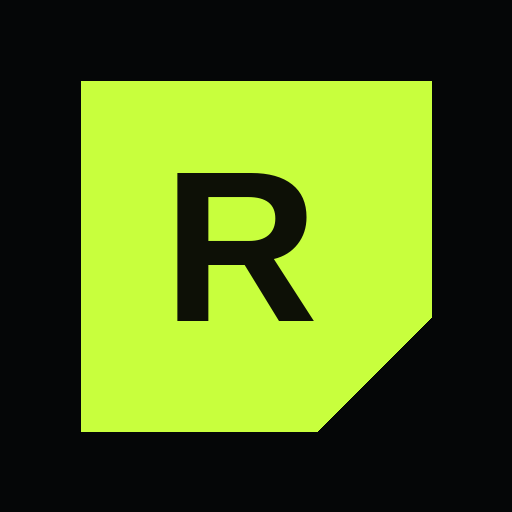
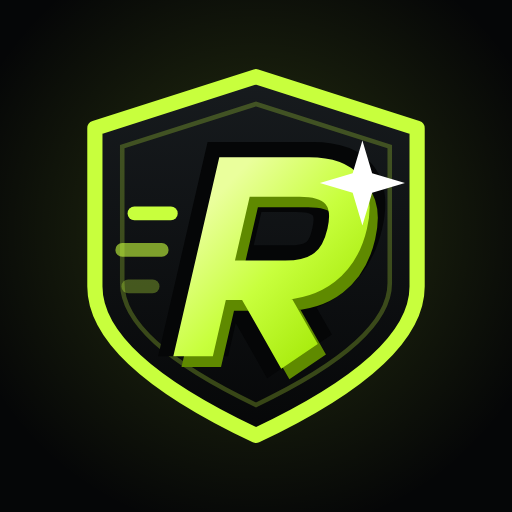
Runner Quest: 방패 엠블럼 로고 추가 (헤더·로그인·파비콘·앱 아이콘)
Claude-Session: https://claude.ai/code/session_012ZS5j7PRTg4FKPMFNKecrB

diff --git a/quest/index.html b/quest/index.html
@@ -12,6 +12,7 @@
 <meta name="apple-mobile-web-app-status-bar-style" content="black-translucent">
 <meta name="apple-mobile-web-app-title" content="Runner Quest">
 <link rel="manifest" href="/quest/manifest.webmanifest">
+<link rel="icon" type="image/svg+xml" href="/quest/logo.svg">
 <link rel="icon" type="image/png" href="/quest/icon-192.png">
 <link rel="apple-touch-icon" href="/quest/icon-180.png">
 <link rel="preconnect" href="https://fonts.googleapis.com">
@@ -79,7 +80,11 @@ a { color:inherit; text-decoration:none; }
 .topbar { position:sticky; top:0; z-index:30; background:rgba(5,6,7,.82); backdrop-filter:blur(14px); -webkit-backdrop-filter:blur(14px); border-bottom:1px solid var(--line); padding-top:env(safe-area-inset-top,0); }
 .topbar-in { height:60px; display:flex; align-items:center; justify-content:space-between; gap:12px; }
 .brand { display:flex; align-items:center; gap:10px; font:700 16px/1 var(--font-en); letter-spacing:-.02em; }
-.brand-mark { width:30px; height:30px; display:grid; place-items:center; background:var(--lime); color:var(--lime-ink); clip-path:polygon(0 0,100% 0,100% 70%,70% 100%,0 100%); font:700 15px/1 var(--font-en); }
+.brand-mark { width:34px; height:34px; flex:none; display:block; filter:drop-shadow(0 0 10px rgba(200,255,61,.25)); transition:transform .25s; }
+.brand:hover .brand-mark { transform:rotate(-6deg) scale(1.06); }
+.login-logo { width:88px; height:88px; justify-self:center; filter:drop-shadow(0 0 22px rgba(200,255,61,.3)); animation:logoFloat 3.2s ease-in-out infinite; }
+@keyframes logoFloat { 50% { transform:translateY(-5px); } }
+@media (prefers-reduced-motion: reduce) { .login-logo { animation:none; } }
 .brand small { display:block; color:var(--muted); font:500 11px/1 var(--font-ko); margin-top:4px; letter-spacing:0; }
 .top-tabs { display:none; gap:4px; }
 .top-tabs button { height:36px; padding:0 14px; border:0; border-radius:var(--r-sm); background:none; color:var(--muted); font-weight:600; }
@@ -343,7 +348,7 @@ table.rt tr:last-child td { border-bottom:0; }
 <header class="topbar">
   <div class="shell topbar-in">
     <a class="brand" href="/quest/" aria-label="Runner Quest">
-      <span class="brand-mark">R</span>
+      <img class="brand-mark" src="/quest/logo.svg" alt="" width="34" height="34">
       <span>Runner Quest<small>데이터 러너즈 · 자기육성</small></span>
     </a>
     <nav class="top-tabs" id="topTabs" role="tablist" hidden>
@@ -364,6 +369,7 @@ table.rt tr:last-child td { border-bottom:0; }
 <!-- 로그인 -->
 <section class="login-wrap" id="viewLogin" hidden>
   <form class="login-card" id="loginForm" novalidate>
+    <img class="login-logo" src="/quest/logo.svg" alt="Runner Quest 로고" width="88" height="88">
     <span class="eyebrow">Player Login</span>
     <h1>오늘도 레벨업하러 오셨군요</h1>
     <p>데이터 러너즈 계정으로 로그인하세요. 퀘스트 기록은 계정 소유자만 볼 수 있도록 DB에 저장됩니다.</p>
